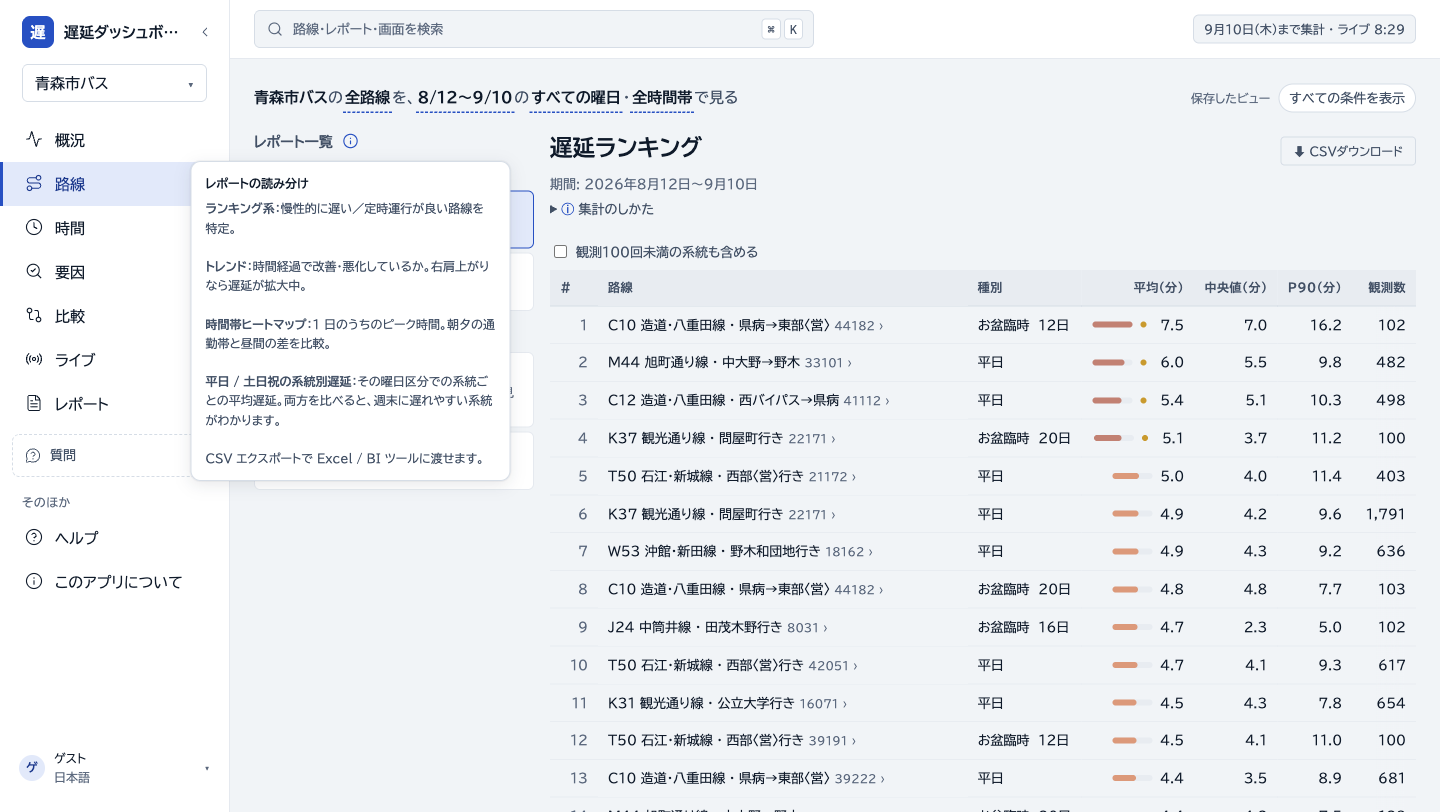
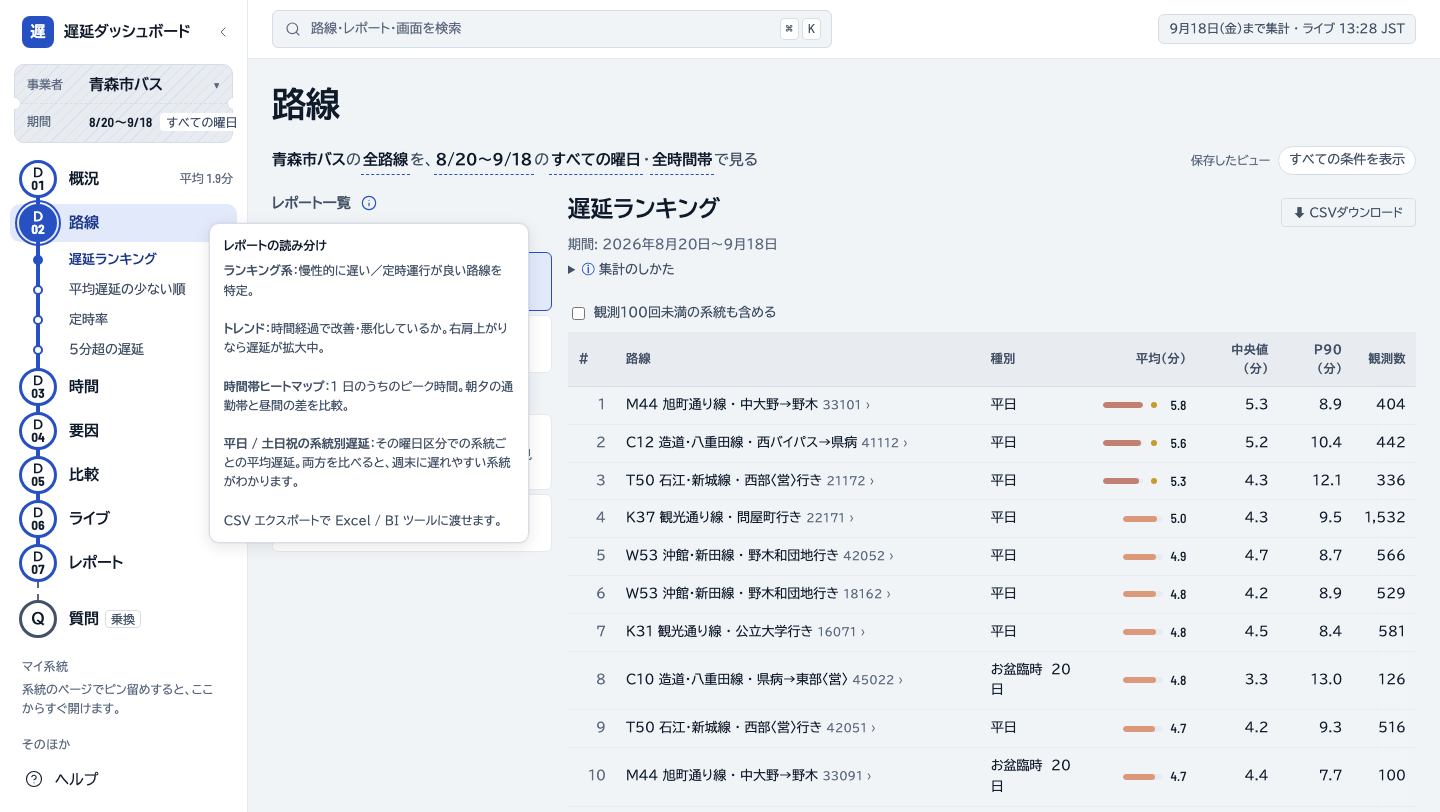
docs(user-manual): refresh all 13 screenshots for the current UI (#1187)
* docs(user-manual): refresh all 13 screenshots for the current UI

Every screenshot in the user manual predated the sidebar's numbered
step-badge redesign (D01-D07/Q, "マイ系統" pinning, the 管理 admin link)
and, in the live-map scene specifically, the vehicle-clustering feature
this session's own fix/live-map-cluster-flicker PR just removed -- the
manual's images had drifted well behind the real app.

Recaptured all 26 files (13 scenes x ja/en) against the actual running
app, as a guest session (matching how the originals were captured --
login_required was toggled off for the capture, then restored), using a
new headless Playwright script. Updated both locale files' one line of
literal, data-specific prose (the intro's captured date range) to match;
every other sentence in the manual already described the UI generically
rather than quoting this dataset's own numbers, so no further text
changes were needed. Confirmed via the existing lint:i18n screenshot-
presence/locale-match test.

* chore(scripts): add the user-manual screenshot capture tool used above

Consolidates the recipe this refresh ran by hand into a single reusable
script: all 13 scenes x 2 locales, one call. Capturing as a guest
(matching how the manual is meant to be seen) needs login_required off,
which the dev-database guard blocks from an agent's own tool calls --
the script's own docstring says to run it via a human-run `!` command,
or from a session with that guard disabled.
[…]

diff --git a/scripts/capture_user_manual_screenshots.py b/scripts/capture_user_manual_screenshots.py
@@ -1,0 +1,276 @@
+#!/usr/bin/env python3
+"""Recaptures every screenshot in frontend/public/user-manual/{en,ja}.md
+against the real running app, so the manual can be refreshed by running one
+command instead of by hand, scene by scene -- the manual's screenshots have
+no automated staleness check, so a UI change can drift out from under them
+indefinitely otherwise.
+
+Requires, in order:
+  1. A production build served at --base (default http://localhost:8000,
+     i.e. `cd frontend && npm run build && cd .. && make bake`, then a
+     running `make serve`/uvicorn backend). The dev server mounts a
+     dev-only sidebar section (`import.meta.env.DEV`) that a production
+     build never shows -- capturing against it would document a debug
+     shortcut menu as if it were part of the real end-user sidebar.
+  2. Agency 1 holding real data.
+  3. `login_required` off for the run -- the manual is captured as a guest,
+     matching how a first-time visitor actually sees it. Toggling that
+     flag is a separate, human `feature_flags` admin action (the dev-
+     database guard blocks the write from an agent's own tool calls); flip
+     it via the admin flags UI/API before running this script, and back on
+     once it finishes. This script never touches that flag itself.
+
+Usage:
+    poetry run python scripts/capture_user_manual_screenshots.py [--locale ja|en|both] [--base URL]
+"""
+
+from __future__ import annotations
+
+import argparse
+import re
+from pathlib import Path
+
+from playwright.sync_api import Page, ViewportSize, sync_playwright
+
+OUT_DIR = Path(__file__).resolve().parent.parent / "frontend" / "public" / "user-manual"
+VIEWPORT: ViewportSize = {"width": 1440, "height": 812}
+AGENCY_ID = 1
+
+# One label per interactive step, per locale -- each is a real accessible
+# name or visible string read back from the i18n locale files (never a
+# value derived from the current dataset, like a date range, which would
+# stop matching the next time this script runs against fresher data).
+LABELS = {
+    "ja": {
+        "hint": "ヒント",
+        "on_time": "定時率",
+        "agencies_tab": "事業者どうし",
+        "you_badge": "あなた",
+        "ask_card": "遅延の大きい路線：上位5件",
+        "returned_data": "取得したデータ",
+        "council_tab": "協議会向けまとめ・遅延証明",
+        "certificate": "遅延証明書",
+        "route_label": "路線",
+        "route_placeholder": "路線を検索",
+        "playback_toggle": "1日の動きを再生",
+        "later": "後で",
+    },
+    "en": {
+        "hint": "Hint",
+        "on_time": "On-time rate",
+        "agencies_tab": "Agencies",
+        "you_badge": "YOU",
+        "ask_card": "most delayed routes",
+        "returned_data": "View returned data",
+        "council_tab": "Council report",
+        "certificate": "Delay certificate",
+        "route_label": "Route",
+        "route_placeholder": "Search routes",
+        "playback_toggle": "Play the day",
+        "later": "Later",
+    },
+}
+
+
+def shot(page: Page, name: str, locale: str) -> None:
+    path = OUT_DIR / f"{name}.{locale}.png"
+    page.screenshot(path=str(path))
+    print(f"wrote {path}")
+
+
+def assert_dashboard(page: Page) -> None:
+    """Fails loudly if the guest session landed on a login wall instead of
+    the dashboard, rather than silently capturing and shipping that as a
+    scene -- `login_required` left on is the one setup mistake that would
+    otherwise corrupt every screenshot in the same way."""
+    page.locator("[aria-label='Account menu'], [aria-label='アカウントメニュー']").first.wait_for(
+        state="visible", timeout=15_000
+    )
+
+
+def first_route_code(page: Page, agency: str) -> str:
+    """The top-ranked route on the delay-ranking report, read live off the
+    page rather than a hardcoded code -- next time this runs, that week's
+    top route will likely differ, and a code that no longer has any
+    certificate-eligible departure would otherwise abort the whole run."""
+    page.goto(f"{agency}/routes")
+    page.wait_for_load_state("networkidle")
+    row = page.locator("table tbody tr").first
+    row.wait_for(timeout=15_000)
+    text = row.inner_text()
+    # Route rows read like "...中大野→野木 33101\xa0›\t平日\t...5.8..." -- the
+    # route code is the run of digits immediately before the "›" link
+    # marker, not the row's last number (later columns are stats, not the
+    # code).
+    match = re.search(r"(\d+)\s*\xa0?[››]", text)
+    if not match:
+        raise RuntimeError(f"could not read a route code from ranking row: {text!r}")
+    return match.group(1)
+
+
+def capture(base: str, locale: str) -> None:
+    L = LABELS[locale]
+    with sync_playwright() as p:
+        browser = p.chromium.launch()
+
+        # 01: fresh context -- no agency chosen yet.
+        ctx = browser.new_context(viewport=VIEWPORT, reduced_motion="reduce")
+        ctx.add_init_script(
+            f"window.localStorage.setItem('app.locale', '{locale}');"
+            "window.localStorage.setItem('help_hint_dismissed', '1');"
+        )
+        page = ctx.new_page()
+        page.goto(f"{base}/")
+        page.wait_for_load_state("networkidle")
+        page.wait_for_timeout(500)
+        shot(page, "01-agency-select", locale)
+        ctx.close()
+
+        # Every other scene: agency already chosen via the URL.
+        ctx = browser.new_context(viewport=VIEWPORT, reduced_motion="reduce")
+        ctx.add_init_script(
+            f"window.localStorage.setItem('app.locale', '{locale}');"
+            "window.localStorage.setItem('help_hint_dismissed', '1');"
+        )
+        page = ctx.new_page()
+        agency = f"{base}/agencies/{AGENCY_ID}"
+        route_code = first_route_code(page, agency)
+
+        page.goto(f"{agency}/pulse")
+        page.wait_for_load_state("networkidle")
+        assert_dashboard(page)
+        page.wait_for_timeout(500)
+        shot(page, "02-pulse", locale)
+
+        # 03: scope sentence, period popover open. The period token is the
+        # second `.scope-token` button in the sentence (route, period, dow,
+        # time band, ...) -- located by that stable structural position,
+        # never by its rendered text, which is the dataset's own date range
+        # and moves every time this script's objective runs it again.
+        page.locator(".scope-token").nth(1).click()
+        page.wait_for_timeout(400)
+        shot(page, "03-scope-sentence", locale)
+        page.keyboard.press("Escape")
+        page.wait_for_timeout(300)
+
+        page.goto(f"{agency}/routes")
+        page.wait_for_load_state("networkidle")
+        page.wait_for_timeout(500)
+        shot(page, "05-routes-ranking", locale)
+
+        # 06: the report-list hint popover.
+        page.get_by_label(L["hint"]).first.click()
+        page.wait_for_timeout(400)
+        shot(page, "06-reports-hint", locale)
+        page.keyboard.press("Escape")
+        page.wait_for_timeout(300)
+
+        # 08: the on-time-rate report.
+        page.get_by_text(L["on_time"], exact=True).first.click()
+        page.wait_for_load_state("networkidle")
+        page.wait_for_timeout(500)
+        shot(page, "08-routes-ontime", locale)
+
+        page.goto(f"{agency}/time")
+        page.wait_for_load_state("networkidle")
+        page.wait_for_timeout(500)
+        shot(page, "07-time-trend", locale)
+
+        page.goto(f"{agency}/why")
+        page.wait_for_load_state("networkidle")
+        page.wait_for_timeout(500)
+        shot(page, "09-why", locale)
+
+        # 10: compare -> agencies tab, waiting for the ranked table (not
+        # just the tab switch) to actually render.
+        page.goto(f"{agency}/compare")
+        page.wait_for_load_state("networkidle")
+        page.wait_for_timeout(300)
+        page.get_by_text(L["agencies_tab"], exact=True).first.click()
+        page.get_by_text(L["you_badge"], exact=True).first.wait_for(timeout=15_000)
+        page.wait_for_timeout(300)
+        shot(page, "10-compare-agencies", locale)
+
+        # 11: live map. Prefer a populated replay of the latest observed
+        # day over the live feed's own instant, which can be quiet at
+        # capture time and would otherwise ship an empty map that neither
+        # matches the manual's own description of it nor demonstrates
+        # anything about how markers render.
+        page.goto(f"{agency}/live")
+        page.wait_for_load_state("networkidle")
+        page.wait_for_timeout(1000)
+        tour_dismiss = page.get_by_text(L["later"], exact=True)
+        if tour_dismiss.count() > 0:
+            tour_dismiss.first.click()
+            page.wait_for_timeout(300)
+        empty_state = page.locator(".ops-map__empty")
+        if empty_state.count() > 0:
+            empty_state.get_by_text(L["playback_toggle"], exact=False).first.click()
+            page.wait_for_timeout(1500)
+            # Jump the scrubber past the service day's start (where there is
+            # rarely any service yet) to a mid-afternoon frame, instead of
+            # waiting out real-time autoplay to get there.
+            scrubber = page.locator("input.scrub-input")
+            if scrubber.count() > 0:
+                max_index = int(scrubber.get_attribute("max") or 0)
+                if max_index > 0:
+                    scrubber.fill(str(int(max_index * 0.65)))
+                    page.wait_for_timeout(1500)
+        shot(page, "11-live", locale)
+
+        page.goto(f"{agency}/ask")
+        page.wait_for_load_state("networkidle")
+        page.wait_for_timeout(500)
+        shot(page, "12-ask-landing", locale)
+
+        # 13: answer a ready-made question, waiting for the real result
+        # (not just the loading state) before capturing.
+        page.get_by_text(L["ask_card"], exact=False).first.click()
+        page.get_by_text(L["returned_data"], exact=False).first.wait_for(timeout=20_000)
+        page.wait_for_timeout(300)
+        shot(page, "13-ask-answer", locale)
+
+        # 15: the delay-certificate's full three-step flow -- the same
+        # top-ranked route read off the ranking report earlier, then
+        # whichever departure its own data returns.
+        page.goto(f"{agency}/reports")
+        page.wait_for_load_state("networkidle")
+        page.wait_for_timeout(300)
+        page.get_by_text(L["council_tab"], exact=False).first.click()
+        page.wait_for_timeout(300)
+        page.get_by_text(L["certificate"], exact=True).first.click()
+        page.wait_for_timeout(500)
+        page.get_by_label(L["route_label"], exact=True).click()
+        page.wait_for_timeout(300)
+        page.get_by_placeholder(L["route_placeholder"], exact=False).fill(route_code)
+        page.wait_for_timeout(500)
+        option = page.get_by_role("option").first
+        option.wait_for(timeout=15_000)
+        option.click()
+        page.wait_for_timeout(1200)
+        select = page.locator("select").last
+        select.wait_for(timeout=15_000)
+        options = select.locator("option").all()
+        if len(options) > 1:
+            value = options[1].get_attribute("value")
+            select.select_option(value=value)
+        page.wait_for_timeout(500)
+        shot(page, "15-reports-certificate", locale)
+
+        ctx.close()
+        browser.close()
+
+
+def main() -> int:
+    parser = argparse.ArgumentParser(description=__doc__, formatter_class=argparse.RawDescriptionHelpFormatter)
+    parser.add_argument("--locale", choices=["ja", "en", "both"], default="both")
+    parser.add_argument("--base", default="http://localhost:8000")
+    args = parser.parse_args()
+    locales = ["ja", "en"] if args.locale == "both" else [args.locale]
+    for locale in locales:
+        capture(args.base, locale)
+    return 0
+
+
+if __name__ == "__main__":
+    raise SystemExit(main())

diff --git a/frontend/public/user-manual/ja.md b/frontend/public/user-manual/ja.md
@@ -2,7 +2,7 @@
 
 このマニュアルは、遅延ダッシュボードを初めて使う方向けに、画面ごとの使い方を順に説明します。
 
-画面写真には、青森市バスの2026年8月12日〜9月10日の実データを、9月11日の朝に見た状態で使っています。どの事業者でも画面の使い方は同じです。事業者のフィードが送っていないデータが必要なレポートでは、画面にその旨が表示されます。
+画面写真には、青森市バスの2026年8月20日〜9月18日の実データを、9月18日の午後に見た状態で使っています。どの事業者でも画面の使い方は同じです。事業者のフィードが送っていないデータが必要なレポートでは、画面にその旨が表示されます。
 
 ---
 

diff --git a/frontend/public/user-manual/en.md b/frontend/public/user-manual/en.md
@@ -2,7 +2,7 @@
 
 This manual walks through the Delay Dashboard screen by screen, for anyone using it for the first time.
 
-The screenshots use real data from Aomori City Bus (青森市バス) for 12 August – 10 September 2026, seen on the morning of 11 September. Every agency’s screens work the same way; where a report needs data that an agency’s feed does not send, the screen says so.
+The screenshots use real data from Aomori City Bus (青森市バス) for 20 August – 18 September 2026, seen on the afternoon of 18 September. Every agency’s screens work the same way; where a report needs data that an agency’s feed does not send, the screen says so.
 
 ---
 
